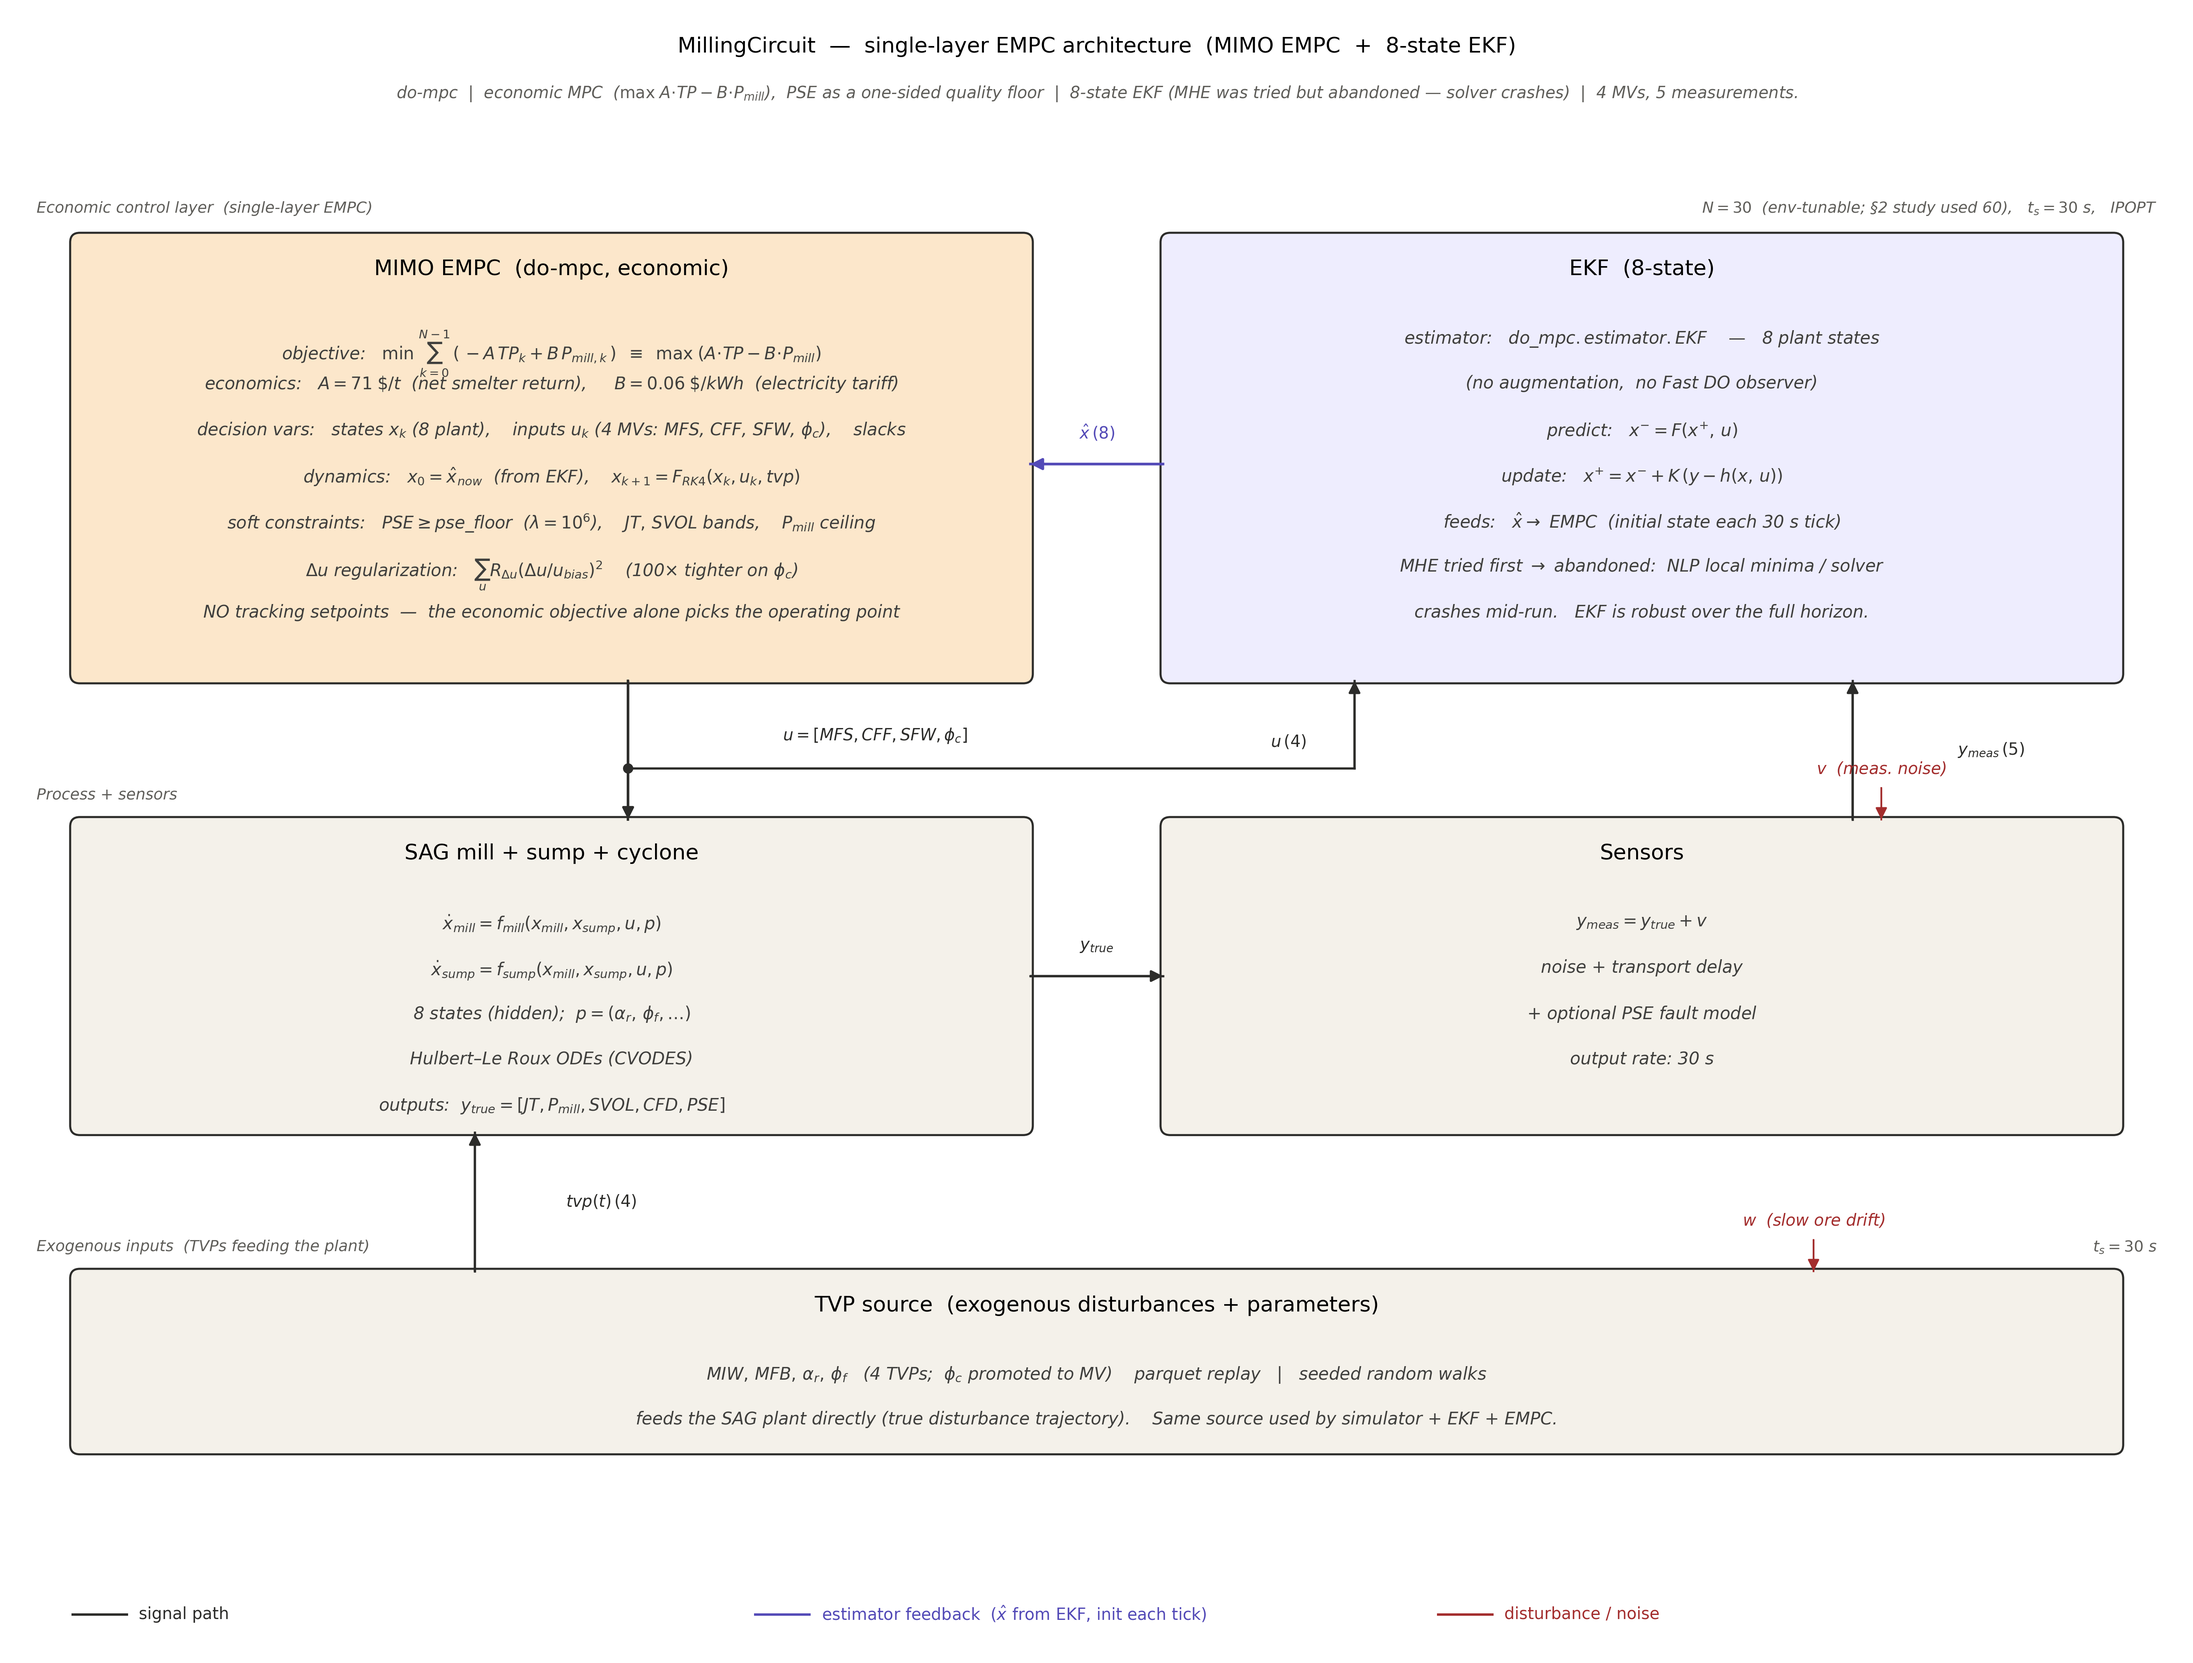
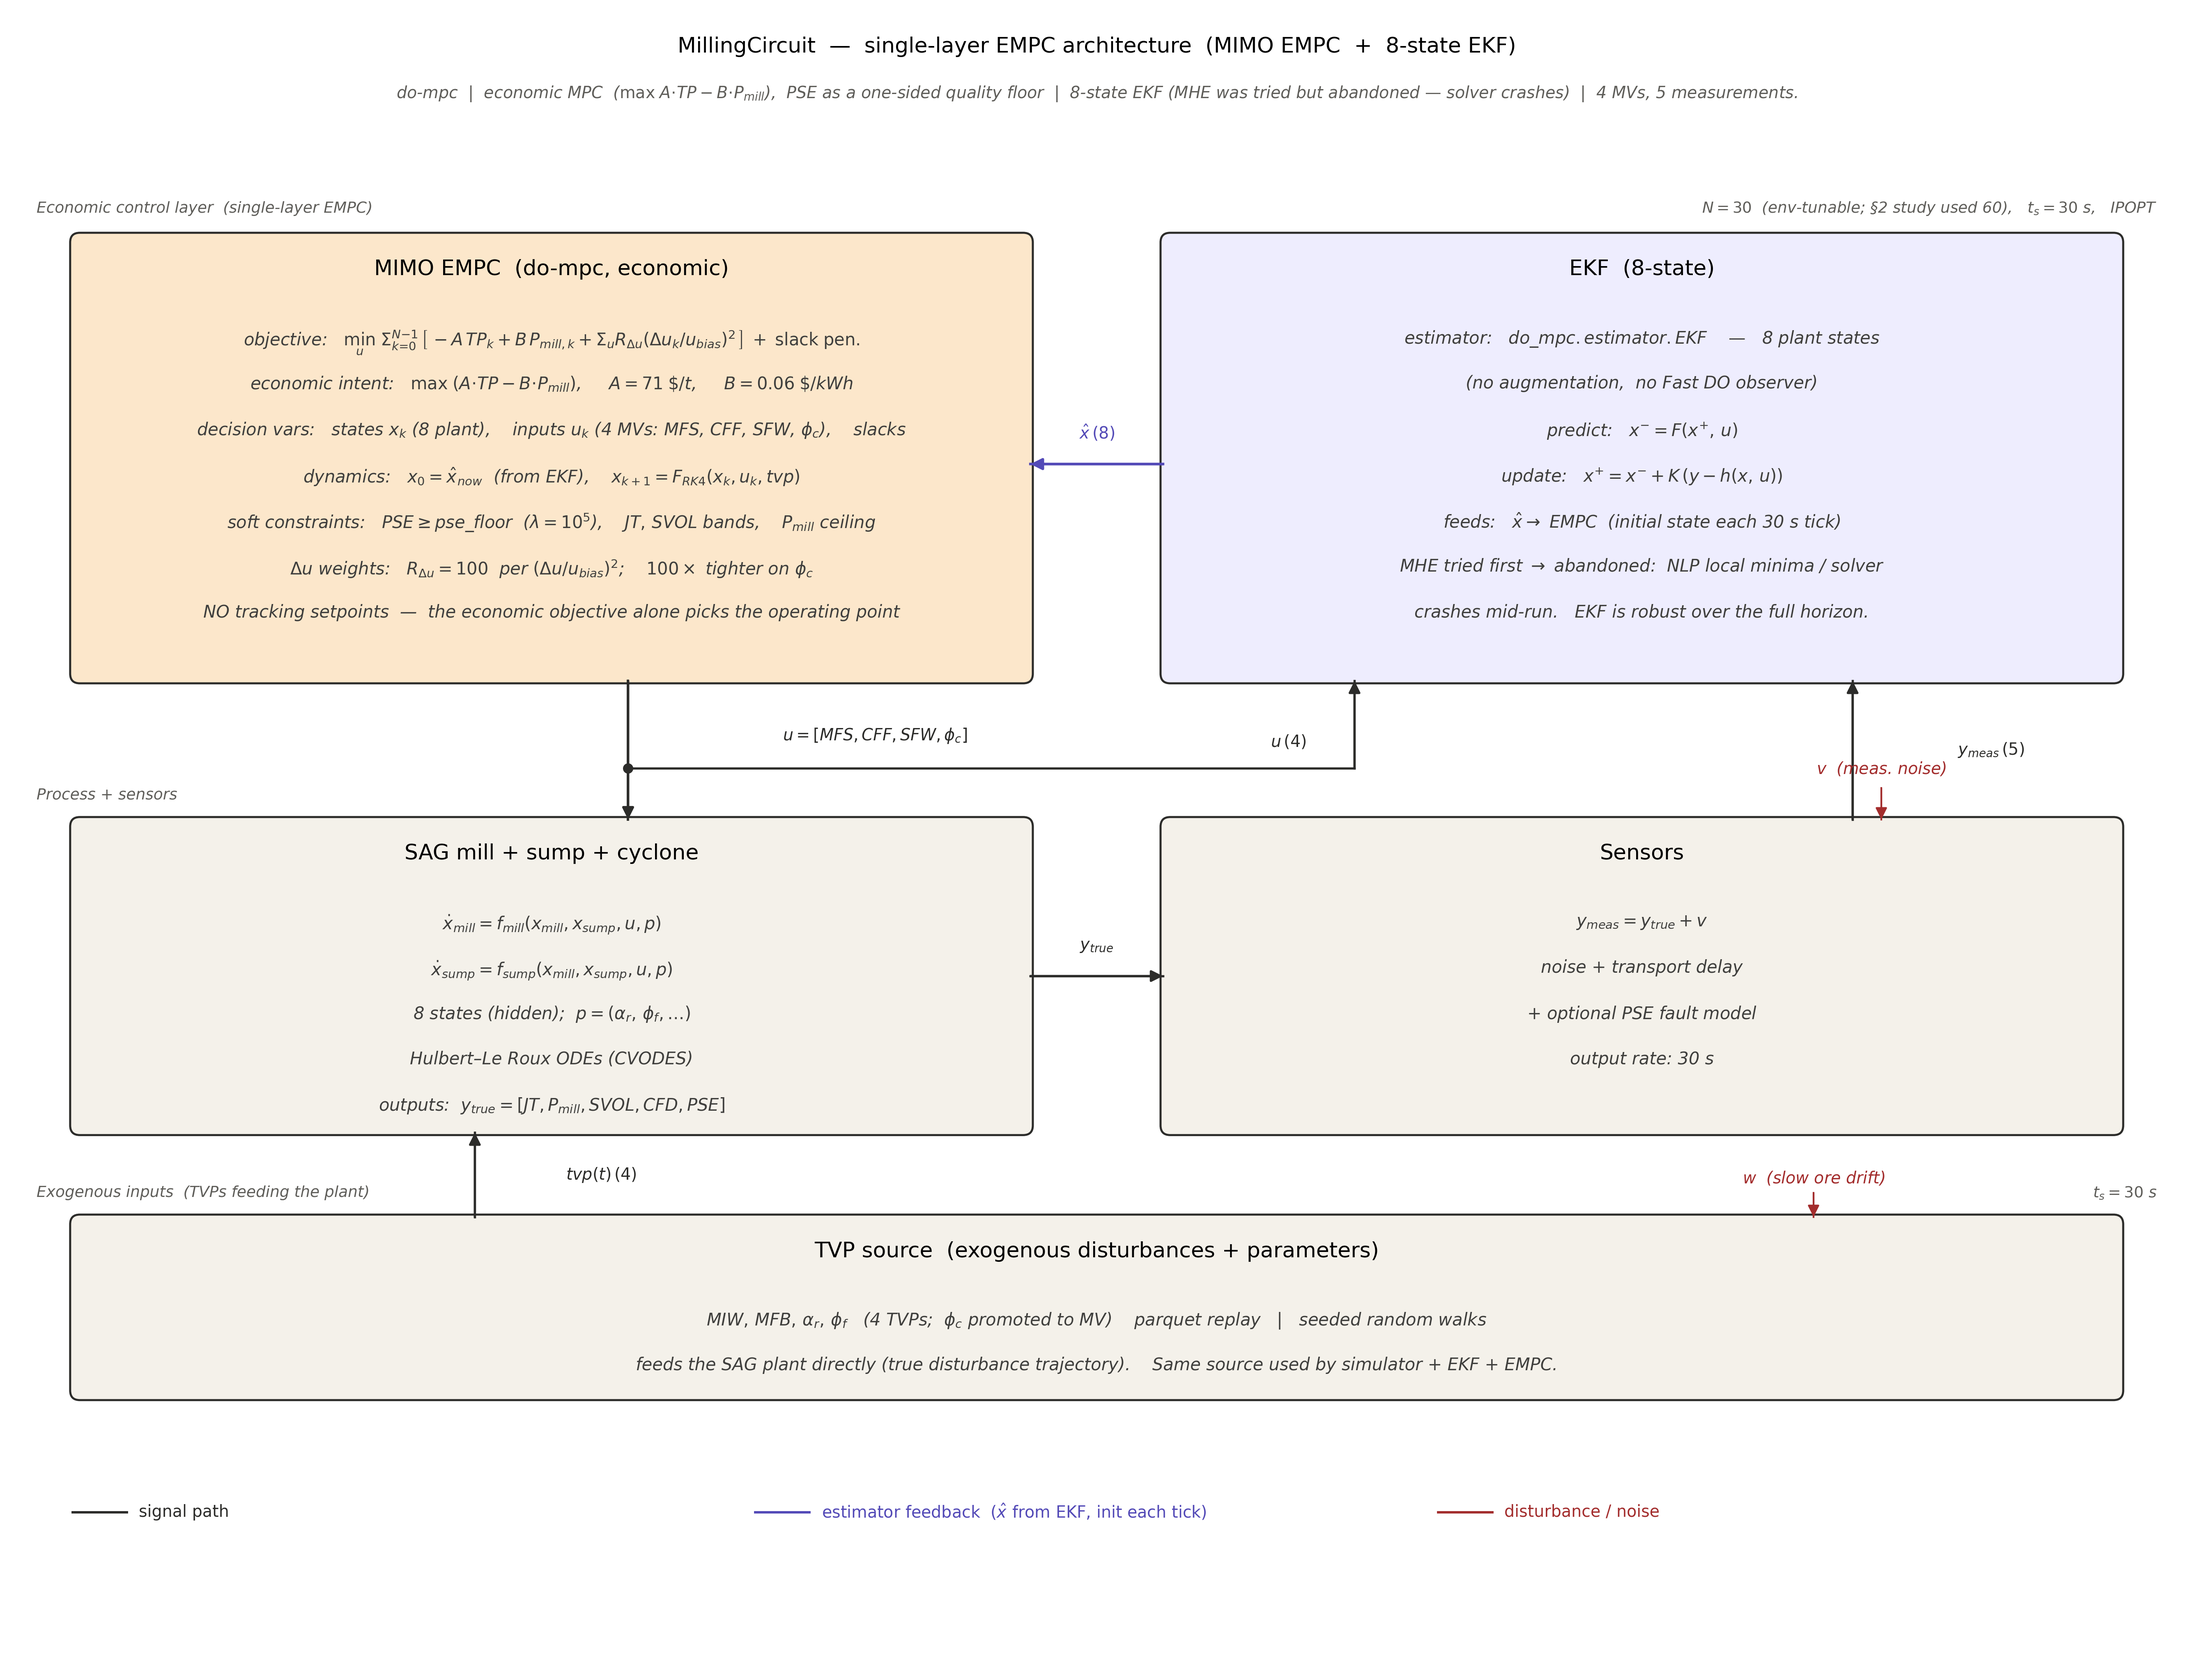
updated diagram

diff --git a/docs/milling_circuit_control_implementations.md b/docs/milling_circuit_control_implementations.md
@@ -79,15 +79,6 @@ Both controllers hold the three CVs at their set‑points through the realistic 
 
 *Figure 1.3 — MV trajectories. The MPC coordinates `MFS`/`CFF`/`SFW` jointly; the 3×PI loops move more reactively because each sees only its own loop error.*
 
-The headline tracking metric is the **integrated absolute error of PSE after the step**:
-
-| Controller | Post‑step PSE IAE | Relative |
-|------------|-------------------|----------|
-| 3×PI | 1.0286 | 1.00× |
-| MPC + EKF + DO | 0.7195 | **0.70× (1.43× better)** |
-
-Steady‑state tracking bias stays small for both (≲ 0.5 % of set‑point pre‑step for the MPC), but the 3×PI bias on `JT` grows to **+2.2 %** after the step while the MPC stays within ±0.4 %.
-
 ### 1.3 Comparison of state estimate vs. simulated plant true state
 
 The MPC controls on the EKF's estimate, not raw measurements, so its quality depends on how well the model predicts the plant. The notebook checks this directly:
@@ -123,6 +114,14 @@ B_NUM = 0.06 $/kWh (electricity tariff)
 ```
 
 i.e. it maximizes the commercial objective `J_comm = A·TP − B·Pmill`. Because revenue (`A`·TP) dominates the energy term (`B`·Pmill) by three orders of magnitude in `$`, the EMPC's incentive is to **push throughput up** until a constraint stops it — here, the `PSE` floor. The architecture keeps an EKF estimator (here **EKF‑only — no DO**, an 8‑state `do_mpc.estimator.EKF`) and simply swaps the tracking QP for the economic objective:
+
+**How the EMPC computes its move each 30 s tick.** One control step is a single pass of this loop (`controllers.py` → `step()`):
+
+1. **Estimate the state** — the EKF folds the new measurement into an updated estimate `x̂` (`ekf.make_step`).
+2. **Seed the optimizer** — `x̂` becomes the initial condition `x_0` of the finite‑horizon problem (`mpc.make_step(x̂)`).
+3. **Optimize** — IPOPT searches over the entire input sequence `u_0 … u_{N−1}`, using the Le Roux–Hulbert model `x_{k+1} = F(x_k, u_k)` to predict each candidate trajectory and scoring it by the economic stage cost `lterm` plus a Δu regularization term plus soft‑constraint slack penalties. The MV bounds are hard; the CV limits (`PSE` floor, `JT`/`SVOL` bands, `Pmill` ceiling) are soft — each gets a slack `ε ≥ 0` and a penalty `λ·ε` (`λ` up to 10⁵) that permits a small violation at high cost, keeping the problem feasible under disturbances.
+4. **Apply the first move** — only `u_0` is sent to the plant; `u_1 … u_{N−1}` are discarded (receding horizon).
+5. **Repeat** — next tick a fresh measurement yields a new `x̂`, and the full problem is re‑solved.
 
 ![EMPC architecture](diagrams/empc_milling_circuit.png)
 
